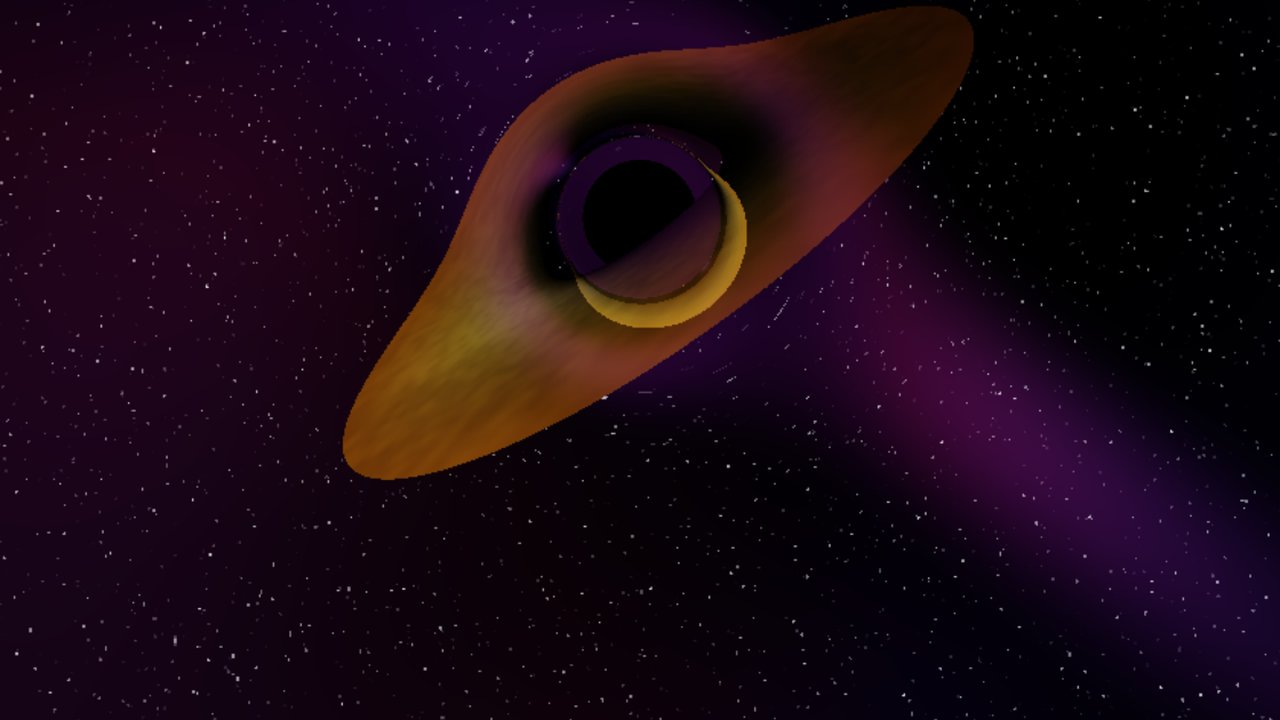
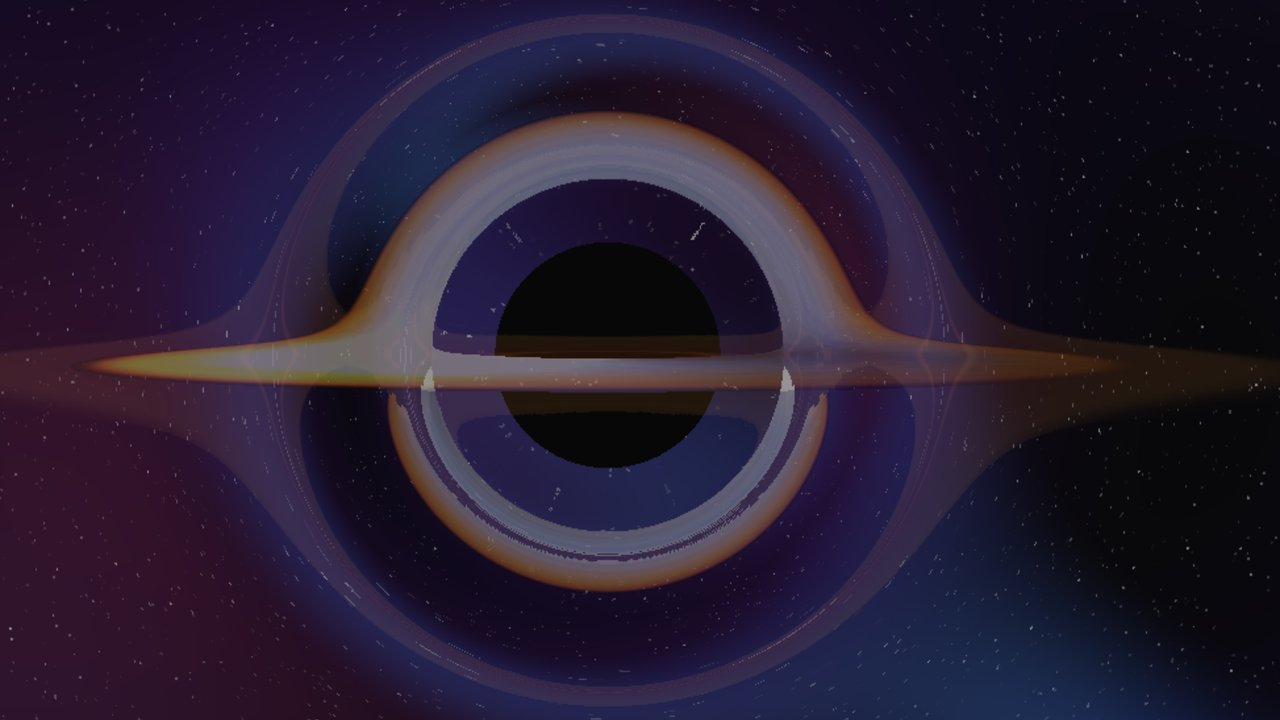
Use GPU captures for black hole page; ARES flew twice
Claude-Session: https://claude.ai/code/session_01EPqd96tzRGtBv7py8w5LCu

diff --git a/projects/black-hole-simulation.html b/projects/black-hole-simulation.html
@@ -26,7 +26,7 @@
   <h1>Real-Time General-Relativistic Black Hole Simulation</h1>
   <p class="role">Personal project · 2025</p>
   <figure class="hero">
-    <div class="media" id="media-x6"><img src="../assets/black-hole-simulation/cover.jpg" alt="Tilted orange-gold accretion disk wrapped around a black hole shadow, with a lensed bright ring over a purple starfield" width="1280" height="720" fetchpriority="high" decoding="async"></div>
+    <div class="media" id="media-x6"><img src="../assets/black-hole-simulation/cover.jpg" alt="Black hole seen nearly edge-on, with the accretion disk lensed into rings above and below the shadow" width="1280" height="720" fetchpriority="high" decoding="async"></div>
     <figcaption>Gravitational lensing of a thin accretion disk around a Schwarzschild black hole.</figcaption>
   </figure>
   <p class="actions"><a class="btn primary" href="https://tristanhottier.github.io/BH_Sim/">Open live demo</a></p>
@@ -45,20 +45,12 @@
   </section>
   <div class="gallery">
       <figure>
-        <a href="../assets/black-hole-simulation/view-1.jpg"><img src="../assets/black-hole-simulation/view-1.jpg" alt="Edge-on view of a glowing disk arcing over and under a black hole against a dark starfield" width="1280" height="720" loading="lazy" decoding="async"></a>
-        <figcaption>The disk seen edge-on, with its light bent over and under the hole.</figcaption>
+        <a href="../assets/black-hole-simulation/edge-on.jpg"><img src="../assets/black-hole-simulation/edge-on.jpg" alt="Black hole seen nearly edge-on: the accretion disk crosses in front of the shadow and its far side is lensed into rings above and below" width="1600" height="935" loading="lazy" decoding="async"></a>
+        <figcaption>The disk seen nearly edge-on. Its far side is lensed over and under the shadow.</figcaption>
       </figure>
       <figure>
-        <a href="../assets/black-hole-simulation/view-2.jpg"><img src="../assets/black-hole-simulation/view-2.jpg" alt="Large tilted disk seen at a steep angle, with a dark central shadow and bright inner edge" width="1120" height="900" loading="lazy" decoding="async"></a>
-        <figcaption>The disk viewed more face-on after dragging to rotate the camera.</figcaption>
-      </figure>
-      <figure>
-        <a href="../assets/black-hole-simulation/view-3.jpg"><img src="../assets/black-hole-simulation/view-3.jpg" alt="Close view of an orange disk surrounding a dark circular shadow with a faint lensed ring" width="1120" height="900" loading="lazy" decoding="async"></a>
-        <figcaption>A closer zoom on the disk and the shadow of the black hole.</figcaption>
-      </figure>
-      <figure class="wide">
-        <a href="../assets/black-hole-simulation/view-4-interface.jpg"><img src="../assets/black-hole-simulation/view-4-interface.jpg" alt="Full frame of the black hole demo with its title, disk tilt, Kepler rotation and resolution controls" width="1600" height="900" loading="lazy" decoding="async"></a>
-        <figcaption>The live demo interface with disk tilt and resolution controls.</figcaption>
+        <a href="../assets/black-hole-simulation/tilted.jpg"><img src="../assets/black-hole-simulation/tilted.jpg" alt="Tilted accretion disk around a black hole shadow, brighter on one side from Doppler beaming, with a thin photon ring" width="1600" height="883" loading="lazy" decoding="async"></a>
+        <figcaption>A tilted view. One side of the disk is brighter from Doppler beaming.</figcaption>
       </figure>
   </div>
   <p class="back"><a href="../index.html#projects">← All projects</a></p>

diff --git a/index.html b/index.html
@@ -76,7 +76,7 @@
     </li>
     <li class="card">
       <a class="card-link" href="projects/black-hole-simulation.html">
-        <figure class="media" id="media-x6"><img src="assets/black-hole-simulation/cover.jpg" alt="Tilted orange-gold accretion disk wrapped around a black hole shadow, with a lensed bright ring over a purple starfield" width="1280" height="720" loading="lazy" decoding="async"></figure>
+        <figure class="media" id="media-x6"><img src="assets/black-hole-simulation/cover.jpg" alt="Black hole seen nearly edge-on, with the accretion disk lensed into rings above and below the shadow" width="1280" height="720" loading="lazy" decoding="async"></figure>
         <div class="body">
           <h3>Real-Time General-Relativistic Black Hole Simulation</h3>
           <p class="date">Personal project · <span class="nw">2025</span></p>

diff --git a/projects/fin-controlled-rocket.html b/projects/fin-controlled-rocket.html
@@ -40,7 +40,7 @@
   </section>
   <section>
     <h2>Results</h2>
-    <p>We flew it with roll control only, and roll-axis stabilization worked in flight.</p>
+    <p>We flew it twice with roll control only, and roll-axis stabilization worked on both flights.</p>
   </section>
   <section>
     <h2>Tools</h2>
